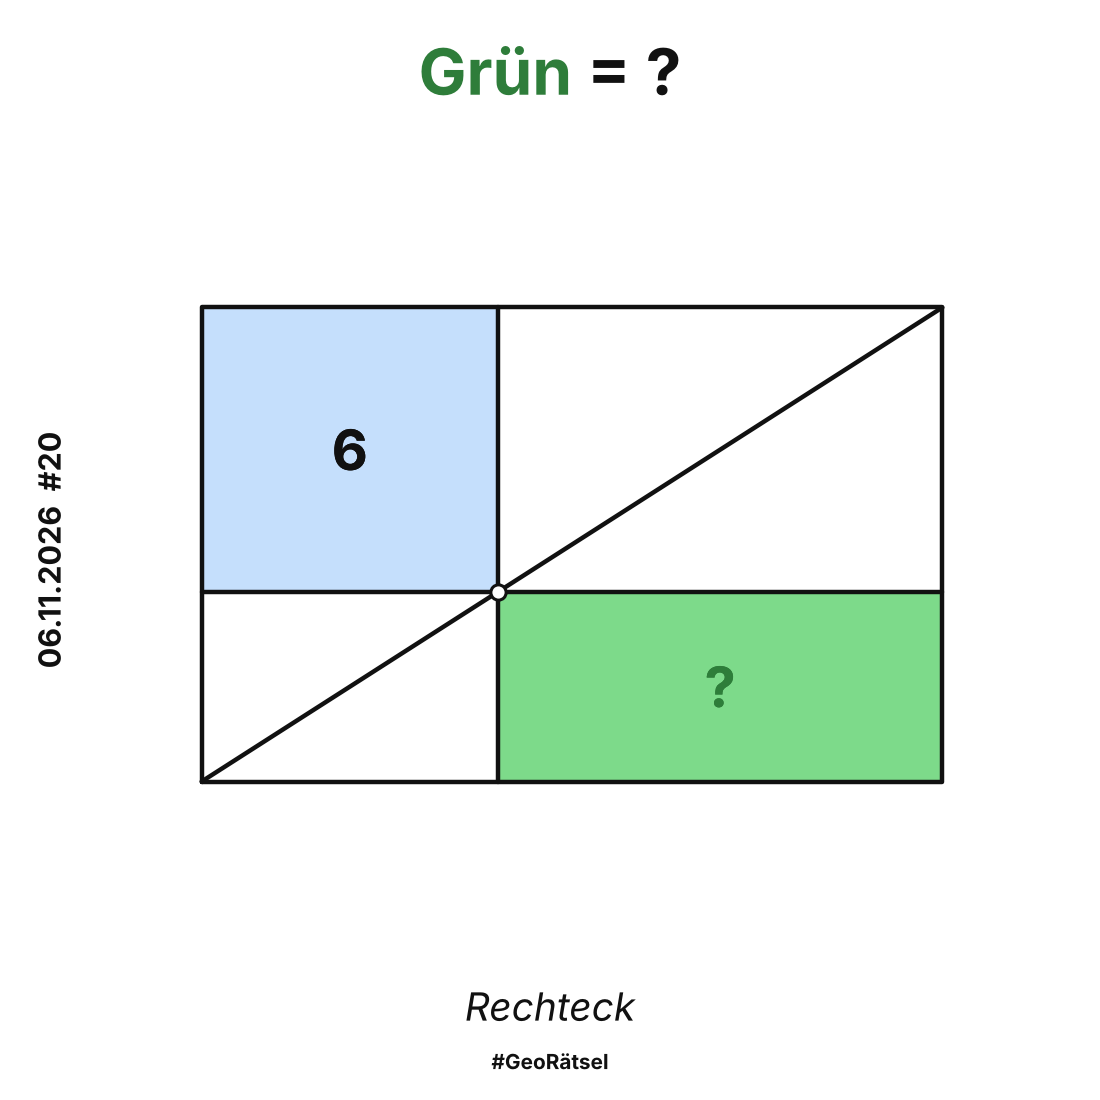
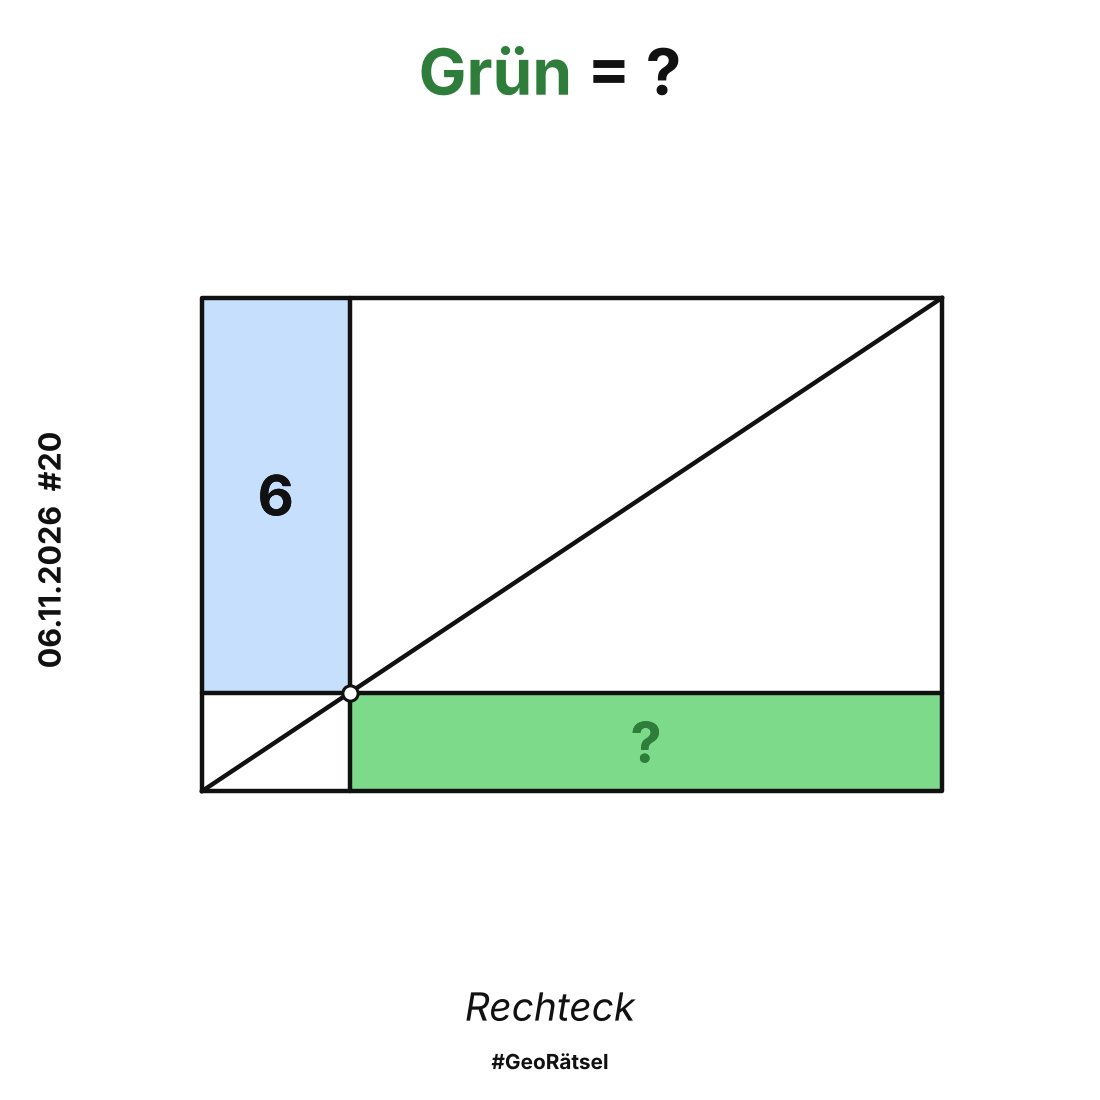
Georätsel #19–#26 nach Kaltlesen überarbeitet
Verhältnis-Karte ohne irreführendes Fragezeichen, einheitliche Texte
und Stichwörter, längliches Feld bei #20, Zahl 6 bei #26 freigestellt;
Lösungsblatt um die Prüfbefunde ergänzt.

Claude-Session: https://claude.ai/code/session_0162FGHhki4SbxiLRQK3zCFd

diff --git a/georaetsel/2026-11-06/nr-26.py b/georaetsel/2026-11-06/nr-26.py
@@ -45,7 +45,7 @@ def figur(ax, loesung=False):
     linie(ax, (0, 0), (ab, 0)); linie(ax, (ac, 0), D)
     rechter_winkel(ax, (ac, 0), D, (ab, 0), groesse=3)
     for p in ((0, 0), (ac, 0), (ab, 0), D): punkt(ax, p)
-    an_strecke(ax, (ac, 0), D, "6", seite=-1, abstand=3, groesse=30)
+    an_strecke(ax, (ac, 0), D, "6", seite=1, abstand=2.5, groesse=30)
     if loesung:
         hilfslinie(ax, (0, 0), D); hilfslinie(ax, D, (ab, 0))
         rechter_winkel(ax, D, (0, 0), (ab, 0), groesse=3)
@@ -53,4 +53,4 @@ def figur(ax, loesung=False):
         from matplotlib.patches import Circle
         ax.add_patch(Circle(m, 3.0, facecolor="none", edgecolor="#1565C0", lw=2.4, ls=(0, (5, 3)), zorder=5))
     else:
-        zahl(ax, (2.0, 3.35), "?", farbe=GRUEN_TXT, groesse=48)
+        zahl(ax, (6.5, 5.25), "?", farbe=GRUEN_TXT, groesse=48)

diff --git a/georaetsel/2026-11-06/nr-23.py b/georaetsel/2026-11-06/nr-23.py
@@ -5,8 +5,8 @@ from shapely.geometry import Polygon as SP
 
 NR, KURZ = 23, "seitenmitten"
 TITEL = {"de": [("Grün", GRUEN_TXT), (" = ?", TINTE)], "en": [("Green", GRUEN_TXT), (" = ?", TINTE)]}
-ZEILE = {"de": "Die Zahl ist eine Fläche.", "en": "The number is an area."}
-STICHWORT = {"de": None, "en": None}
+ZEILE = {"de": None, "en": None}
+STICHWORT = {"de": "Dreieck", "en": "triangle"}
 ANTWORT = {"de": [("Grün", GRUEN_TXT), (" = 8", TINTE)], "en": [("Green", GRUEN_TXT), (" = 8", TINTE)]}
 SCHRITTE = {
     "de": ["Zeichne die dritte Linie: von der oberen Ecke durch den Schnittpunkt zur Mitte der unteren Seite.",

diff --git a/georaetsel/2026-11-06/nr-25.py b/georaetsel/2026-11-06/nr-25.py
@@ -5,7 +5,7 @@ from _basis import *
 NR, KURZ = 25, "viertelkreis"
 TITEL = {"de": [("Grün", GRUEN_TXT), (" = ?", TINTE)], "en": [("Green", GRUEN_TXT), (" = ?", TINTE)]}
 ZEILE = {"de": None, "en": None}
-STICHWORT = {"de": "Viertelkreis", "en": "quarter circle"}
+STICHWORT = {"de": "Viertelkreis und Rechteck", "en": "quarter circle and rectangle"}
 ANTWORT = {"de": [("Grün", GRUEN_TXT), (" = 12", TINTE)], "en": [("Green", GRUEN_TXT), (" = 12", TINTE)]}
 SCHRITTE = {
     "de": ["Die Diagonale vom Mittelpunkt zur Ecke auf dem Bogen ist ein Radius r.",

diff --git a/georaetsel/2026-11-06/nr-22.py b/georaetsel/2026-11-06/nr-22.py
@@ -32,7 +32,6 @@ def pruefen():
     return "x = 30° für 20 zufällige Quadratgrößen"
 
 def figur(ax, loesung=False):
-    flaeche(ax, [D, C, E], HELLBLAU, kontur=False)
     zug(ax, [A, B, C, D]); zug(ax, [D, C, E]); linie(ax, E, A); linie(ax, E, B)
     for p, q in ((A, B), (B, C), (C, D), (D, A), (D, E), (C, E)):
         strich(ax, p, q)

diff --git a/georaetsel/2026-11-06/nr-21.py b/georaetsel/2026-11-06/nr-21.py
@@ -45,5 +45,3 @@ def figur(ax, loesung=False):
         an_strecke(ax, (0, 0), V, "R", seite=1, abstand=3, drehen=False)
         winkel(ax, V, (0, 0), (0, -r), "30°", r=16, groesse=17, text_abstand=1.75)
         punkt(ax, (0, 0), "rot")
-    else:
-        zahl(ax, (0, 0.05), "?", farbe=GRUEN_TXT, groesse=48)

diff --git a/georaetsel/2026-11-06/nr-20.py b/georaetsel/2026-11-06/nr-20.py
@@ -17,7 +17,7 @@ SCHRITTE = {
            "Take the yellow and orange triangles away: top left the rectangle 6 is left, bottom right green is left.",
            "Equal minus equal is equal: green = 6."],
 }
-W, H, T = 6.25, 4.0, 0.4
+W, H, T = 7.5, 5.0, 0.2
 
 def pruefen():
     for _ in range(40):

diff --git a/georaetsel/2026-11-06/loesungen.md b/georaetsel/2026-11-06/loesungen.md
@@ -12,7 +12,7 @@ Erstellt mit `/georaetsel`. Jede Karte gibt es als Aufgabe und als Lösung, jewe
 | 23 | Grün = ? | Dreieck mit zwei Linien zu Seitenmitten | dritte Linie ergänzen: sechs gleich große Dreiecke | 8 | mittel |
 | 24 | Grün = ? | regelmäßiges Achteck | Zerlegen: das Mittelrechteck ist das halbe Achteck | 14 | mittel |
 | 25 | Grün = ? | Viertelkreis mit Rechteck | die Rechteck-Diagonale ist ein Radius | 12 | mittel |
-| 26 | Grün = ? | drei Halbkreise | nur die Strecke 6 zählt: Grün = Kreis über dieser Strecke | 9π ≈ 28,3 | schwer |
+| 26 | Grün gesamt = ? | drei Halbkreise | nur die Strecke 6 zählt: Grün = Kreis über dieser Strecke | 9π ≈ 28,3 | schwer |
 
 ## Lösungswege in leichter Sprache
 
@@ -35,4 +35,5 @@ Erstellt mit `/georaetsel`. Jede Karte gibt es als Aufgabe und als Lösung, jewe
 ## Prüfungen
 - Jede Lösung mit 10–40 zufälligen Figuren nachgerechnet (`nr-XX.py`, Funktion `pruefen`).
 - Redundanz: Jede Karte hat nur die nötigen Angaben (eine Zahl bzw. zwei Längen bei #25).
-- Kaltlesen und Kaltlösen durch frische Prüfer ohne Lösungskenntnis (siehe unten).
+- Kaltlösen: Ein frischer Prüfer hat alle 8 Karten nur aus dem Bild richtig gelöst. Befund: Bei #26 war unklar, ob die ganze grüne Fläche gemeint ist → Titel „Grün gesamt = ?“. Bei #25 war der Mittelpunkt nicht markiert → roter Punkt.
+- Kaltlesen (DE + EN): „?“ aus dem Verhältnis-Kreis #21 entfernt; Zusatzzeile bei #23 gestrichen (einheitlich mit den anderen Karten), Stichwort „Dreieck“; #25 Stichwort „Viertelkreis und Rechteck“; #22 ohne bedeutungslose Farbfüllung; #20 blaues Feld länglicher (sah wie ein Quadrat aus); #26 Zahl 6 freigestellt.
